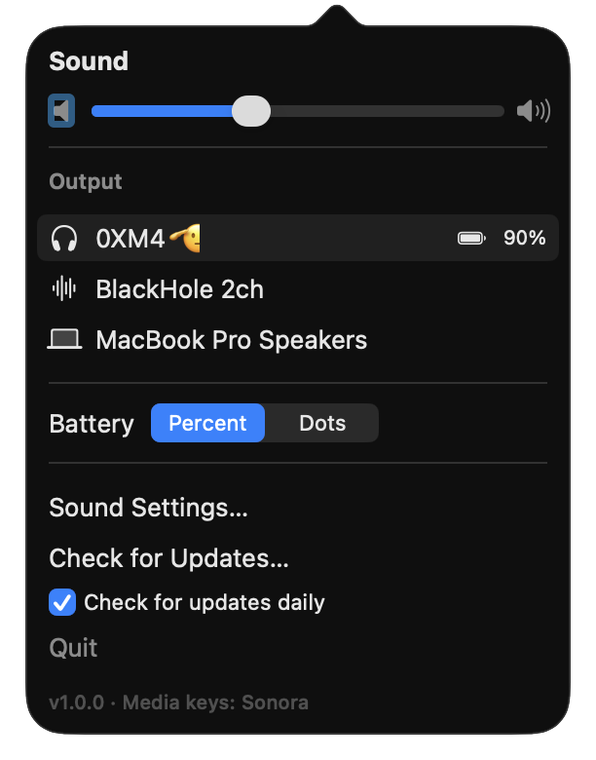
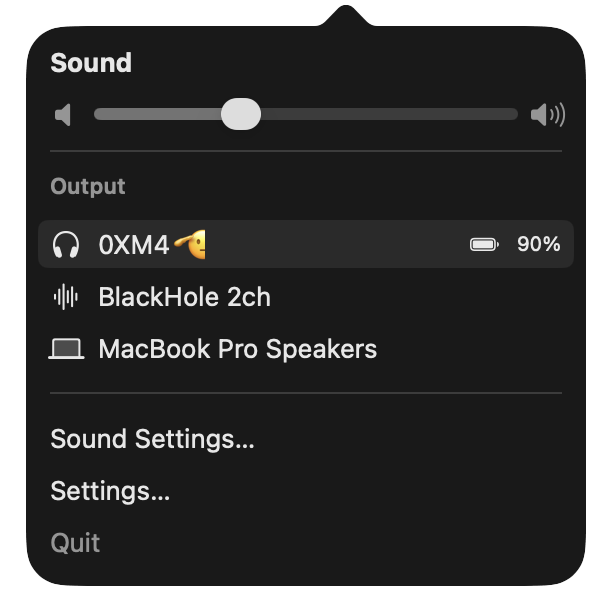
Move battery style, updates and media-key status into a Settings panel
Keeps the menu a short list: volume, outputs, Sound Settings, Settings, Quit.

diff --git a/Sources/HeadsetCompanion/HeadsetCompanionApp.swift b/Sources/HeadsetCompanion/HeadsetCompanionApp.swift
@@ -134,6 +134,31 @@ final class StatusItemController {
         button.toolTip = "\(monitor.deviceName ?? "Headset") — \(battery)%"
     }
 
+    private var settingsWindow: NSWindow?
+
+    /// Shows (or re-focuses) the Settings panel. The app is LSUIElement, so
+    /// it has to activate itself for the window to come forward.
+    func showSettings() {
+        popover.performClose(nil)
+        if let window = settingsWindow {
+            NSApp.activate(ignoringOtherApps: true)
+            window.makeKeyAndOrderFront(nil)
+            return
+        }
+        let host = NSHostingController(
+            rootView: SettingsView(updater: updater, mediaKeyStateText: mediaKeyStateText)
+        )
+        let window = NSWindow(contentViewController: host)
+        window.title = "HeadsetCompanion Settings"
+        window.styleMask = [.titled, .closable, .fullSizeContentView]
+        window.titlebarAppearsTransparent = true
+        window.isReleasedWhenClosed = false
+        window.center()
+        settingsWindow = window
+        NSApp.activate(ignoringOtherApps: true)
+        window.makeKeyAndOrderFront(nil)
+    }
+
     @objc private func toggle() {
         if popover.isShown {
             popover.performClose(nil)
@@ -144,7 +169,8 @@ final class StatusItemController {
                 audio: audio,
                 monitor: monitor,
                 mediaKeyStateText: mediaKeyStateText,
-                updater: updater
+                updater: updater,
+                openSettings: { [weak self] in self?.showSettings() }
             )
         )
         guard let button = item.button else { return }
@@ -274,8 +300,8 @@ struct SoundMenuView: View {
     @ObservedObject var monitor: BatteryMonitor
     let mediaKeyStateText: String
     @ObservedObject var updater: Updater
-    @AppStorage(BatteryStyle.key) private var batteryStyle = BatteryStyle.percent
-    @AppStorage(Updater.autoCheckKey) private var autoCheckUpdates = true
+    /// Opens the Settings panel (owned by `StatusItemController`).
+    let openSettings: () -> Void
 
     /// Devices don't all notify on volume changes (and nothing notifies when
     /// another app changes it), so the open menu also polls once a second.
@@ -309,77 +335,23 @@ struct SoundMenuView: View {
             Divider()
                 .padding(.horizontal, 12)
 
-            Picker("Battery", selection: $batteryStyle) {
-                ForEach(BatteryStyle.allCases) { Text($0.title).tag($0) }
-            }
-            .pickerStyle(.segmented)
-            .controlSize(.small)
-            .padding(.horizontal, 12)
-            .help("How the menu bar shows the headset battery.")
-
-            Divider()
-                .padding(.horizontal, 12)
-
             VStack(alignment: .leading, spacing: 2) {
                 MenuRowButton(action: openSoundSettings) {
                     Text("Sound Settings…")
                 }
-                MenuRowButton(action: checkForUpdates) {
-                    Text(updateRowTitle)
-                        .foregroundStyle(updateRowSecondary ? .secondary : .primary)
+                MenuRowButton(action: openSettings) {
+                    Text("Settings…")
                 }
-                Toggle("Check for updates daily", isOn: $autoCheckUpdates)
-                    .toggleStyle(.checkbox)
-                    .controlSize(.small)
-                    .padding(.horizontal, 6)
-                    .padding(.vertical, 2)
                 MenuRowButton(action: { NSApplication.shared.terminate(nil) }) {
                     Text("Quit")
                         .foregroundStyle(.secondary)
                 }
             }
             .padding(.horizontal, 6)
-
-            Text("v\(updater.currentVersion) · Media keys: \(mediaKeyStateText)")
-                .font(.caption2)
-                .foregroundStyle(.tertiary)
-                .padding(.horizontal, 12)
-                .padding(.bottom, 10)
-                .help("Which app MediaRemote routes headset and F7–F9 taps to.")
+            .padding(.bottom, 10)
         }
         .frame(width: 280)
         .onReceive(tick) { _ in audio.refreshVolume() }
-    }
-
-    // MARK: - Updates
-
-    /// One row that doubles as status: click to check, click again to
-    /// install once a newer release is known.
-    private var updateRowTitle: String {
-        switch updater.state {
-        case .idle: return "Check for Updates…"
-        case .checking: return "Checking for updates…"
-        case .upToDate: return "Up to date (v\(updater.currentVersion))"
-        case .available(let r): return "Update to v\(r.version)…"
-        case .downloading: return "Downloading update…"
-        case .installing: return "Installing… (relaunches)"
-        case .failed(let msg): return "Update failed — \(msg)"
-        }
-    }
-
-    private var updateRowSecondary: Bool {
-        switch updater.state {
-        case .checking, .downloading, .installing, .upToDate: return true
-        default: return false
-        }
-    }
-
-    private func checkForUpdates() {
-        switch updater.state {
-        case .available(let r): Task { await updater.install(r) }
-        case .checking, .downloading, .installing: break
-        default: Task { await updater.check(install: false) }
-        }
     }
 
     // MARK: - Volume
@@ -493,5 +465,93 @@ struct MenuRowButton<Label: View>: View {
         if hovering { return AnyShapeStyle(Color.primary.opacity(0.14)) }
         if highlighted { return AnyShapeStyle(Color.primary.opacity(0.08)) }
         return AnyShapeStyle(Color.clear)
+    }
+}
+
+// MARK: - Settings panel
+
+/// The Settings window: everything that isn't picking an output device, so
+/// the menu itself stays a short list.
+struct SettingsView: View {
+
+    @ObservedObject var updater: Updater
+    let mediaKeyStateText: String
+
+    @AppStorage(BatteryStyle.key) private var batteryStyle = BatteryStyle.percent
+    @AppStorage(Updater.autoCheckKey) private var autoCheckUpdates = true
+
+    var body: some View {
+        VStack(alignment: .leading, spacing: 0) {
+            Form {
+                Section {
+                    Picker("Menu bar battery:", selection: $batteryStyle) {
+                        ForEach(BatteryStyle.allCases) { Text($0.title).tag($0) }
+                    }
+                    .pickerStyle(.segmented)
+                    .help("How the menu bar shows the headset battery.")
+                }
+
+                Section {
+                    Toggle("Check for updates daily", isOn: $autoCheckUpdates)
+                        .help("Looks for a newer release once a day and installs it.")
+                    HStack(spacing: 10) {
+                        Button(updateButtonTitle, action: checkForUpdates)
+                            .disabled(updateBusy)
+                        if updateBusy { ProgressView().controlSize(.small) }
+                        Text(updateStatusText)
+                            .font(.callout)
+                            .foregroundStyle(.secondary)
+                            .fixedSize(horizontal: false, vertical: true)
+                    }
+                } header: {
+                    Text("Updates")
+                }
+
+                Section {
+                    LabeledContent("Media keys go to:", value: mediaKeyStateText)
+                        .help("Which app MediaRemote routes headset and F7–F9 taps to.")
+                    LabeledContent("Version:", value: "v\(updater.currentVersion)")
+                } header: {
+                    Text("About")
+                }
+            }
+            .formStyle(.grouped)
+        }
+        .frame(width: 420)
+        .fixedSize(horizontal: false, vertical: true)
+    }
+
+    // MARK: - Updates
+
+    private var updateBusy: Bool {
+        switch updater.state {
+        case .checking, .downloading, .installing: return true
+        default: return false
+        }
+    }
+
+    private var updateButtonTitle: String {
+        if case .available = updater.state { return "Install Update" }
+        return "Check for Updates"
+    }
+
+    private var updateStatusText: String {
+        switch updater.state {
+        case .idle: return ""
+        case .checking: return "Checking…"
+        case .upToDate: return "Up to date (v\(updater.currentVersion))"
+        case .available(let r): return "v\(r.version) is available"
+        case .downloading: return "Downloading…"
+        case .installing: return "Installing — the app will relaunch"
+        case .failed(let msg): return msg
+        }
+    }
+
+    private func checkForUpdates() {
+        switch updater.state {
+        case .available(let r): Task { await updater.install(r) }
+        case .checking, .downloading, .installing: break
+        default: Task { await updater.check(install: false) }
+        }
     }
 }

diff --git a/README.md b/README.md
@@ -42,8 +42,11 @@ headset battery at all**.
 | **Media keys that behave** | Optionally claims the play/pause keys so your headset's buttons control the tab you mean, not whatever Chrome last touched. |
 
 <p align="center">
-  <img src="docs/img/menu.png" alt="The Sound menu: volume, output devices with per-device battery, battery display style, update controls" width="420">
+  <img src="docs/img/menu.png" alt="The Sound menu: volume and output devices, each with its own battery" width="360">
+  &nbsp;&nbsp;
+  <img src="docs/img/settings.png" alt="Settings: menu bar battery style, daily update check, media-key routing and version" width="400">
 </p>
+<p align="center"><sub>One click for sound. Everything else lives in Settings.</sub></p>
 
 ## Install
 
